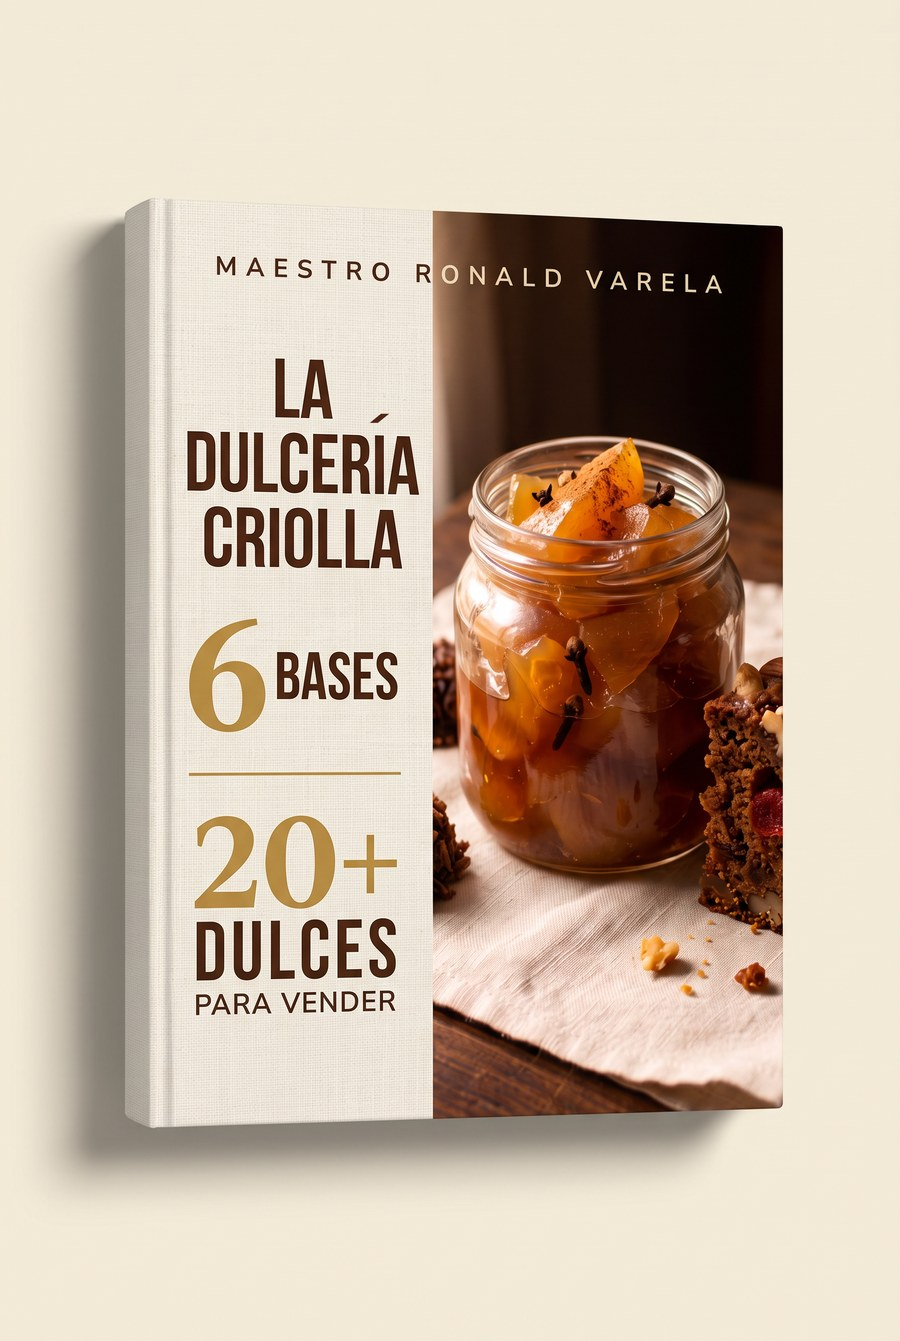
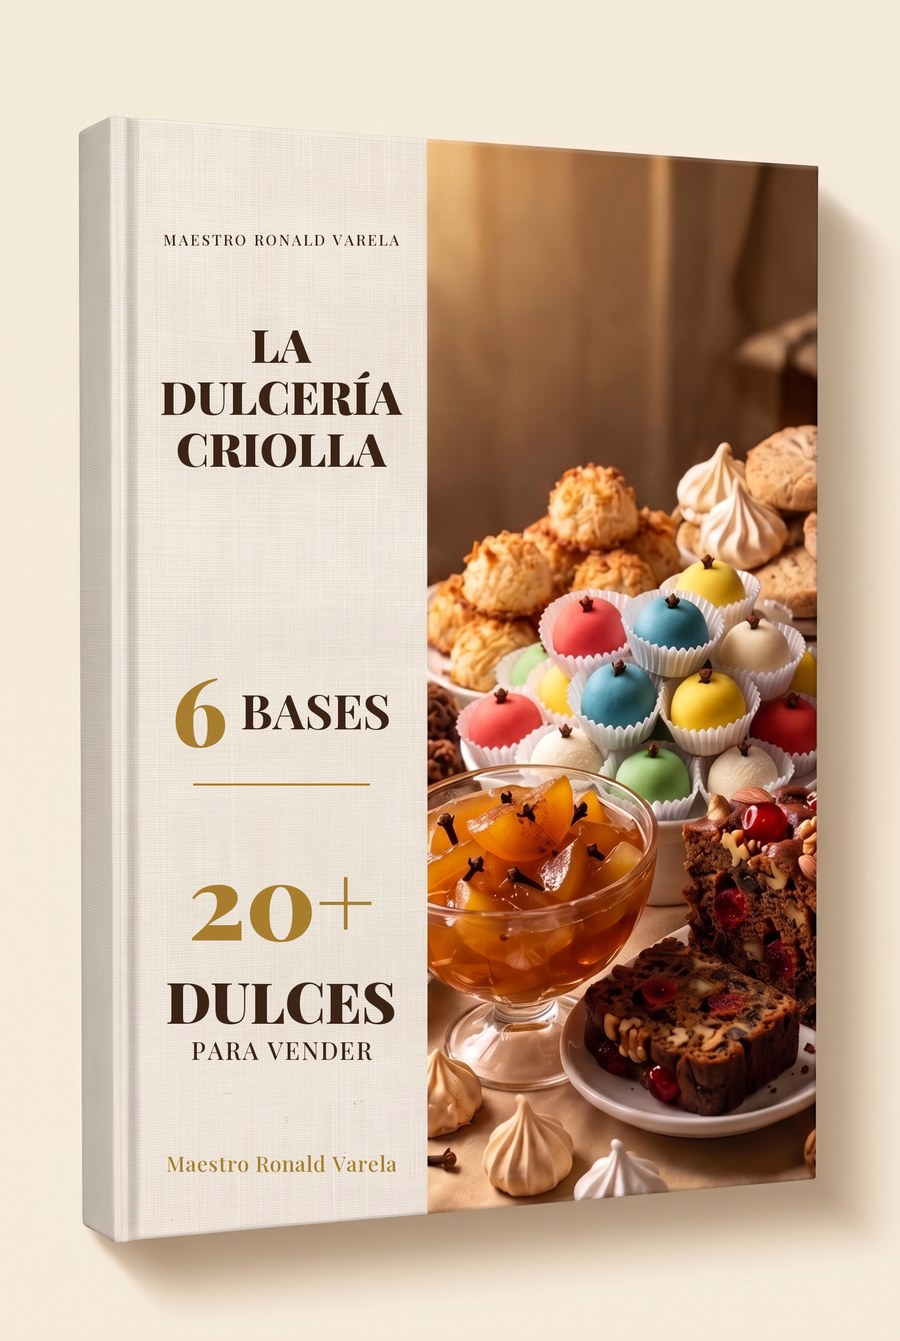
Portada nueva de La Dulceria Criolla
La foto que eligio Jonathan (la piramide de panelitas, merengues, la
copa de lechosa y la torta negra). El texto NO lo escribio la IA: se
compone con Playfair Display sobre un panel vacio, porque la IA se
come la tilde de DULCERIA y el titulo se le montaba encima de la foto.
Verificado que ningun pixel de texto pasa del divisor.

diff --git a/index.html b/index.html
@@ -988,30 +988,30 @@ svg .trazado{stroke-dasharray:var(--l);stroke-dashoffset:var(--l);
 <!-- La versión del enlace obliga al navegador a bajar los archivos
      nuevos. Sin esto, el que ya abrió la app antes se queda con los
      viejos en caché y ve la app a medias. Se cambia en cada publicación. -->
-<script src="dibujos.js?v=202608062346"></script>
+<script src="dibujos.js?v=202608070021"></script>
 <!-- Los procesos comunes a los 12 panes. Va ANTES de los contenido-*,
      porque las recetas los invocan al construirse. -->
-<script src="procesos.js?v=202608062346"></script>
-<script src="ayuda.js?v=202608062346"></script>
-<script src="contenido-regalo-1.js?v=202608062346"></script>
-<script src="contenido-regalo-2.js?v=202608062346"></script>
-<script src="contenido-regalo-3.js?v=202608062346"></script>
-<script src="contenido-regalo-4.js?v=202608062346"></script>
-<script src="contenido-regalo-5.js?v=202608062346"></script>
-<script src="contenido-modulo-1.js?v=202608062346"></script>
-<script src="contenido-modulo-2.js?v=202608062346"></script>
-<script src="contenido-modulo-3.js?v=202608062346"></script>
-<script src="contenido-modulo-4.js?v=202608062346"></script>
-<script src="contenido-modulo-5.js?v=202608062346"></script>
-<script src="contenido-modulo-6.js?v=202608062346"></script>
-<script src="calculadora.js?v=202608062346"></script>
-<script src="talvina.js?v=202608062346"></script>
-<script src="panes.js?v=202608062346"></script>
-<script src="fichas.js?v=202608062346"></script>
-<script src="contenido-napa.js?v=202608062346"></script>
-<script src="contenido-ciudad.js?v=202608062346"></script>
-<script src="contenido-dulceria.js?v=202608062346"></script>
-<script src="ronald.js?v=202608062346"></script>
+<script src="procesos.js?v=202608070021"></script>
+<script src="ayuda.js?v=202608070021"></script>
+<script src="contenido-regalo-1.js?v=202608070021"></script>
+<script src="contenido-regalo-2.js?v=202608070021"></script>
+<script src="contenido-regalo-3.js?v=202608070021"></script>
+<script src="contenido-regalo-4.js?v=202608070021"></script>
+<script src="contenido-regalo-5.js?v=202608070021"></script>
+<script src="contenido-modulo-1.js?v=202608070021"></script>
+<script src="contenido-modulo-2.js?v=202608070021"></script>
+<script src="contenido-modulo-3.js?v=202608070021"></script>
+<script src="contenido-modulo-4.js?v=202608070021"></script>
+<script src="contenido-modulo-5.js?v=202608070021"></script>
+<script src="contenido-modulo-6.js?v=202608070021"></script>
+<script src="calculadora.js?v=202608070021"></script>
+<script src="talvina.js?v=202608070021"></script>
+<script src="panes.js?v=202608070021"></script>
+<script src="fichas.js?v=202608070021"></script>
+<script src="contenido-napa.js?v=202608070021"></script>
+<script src="contenido-ciudad.js?v=202608070021"></script>
+<script src="contenido-dulceria.js?v=202608070021"></script>
+<script src="ronald.js?v=202608070021"></script>
 <script>
 /* ══ Catálogo ══ */
 const MODULOS = [
